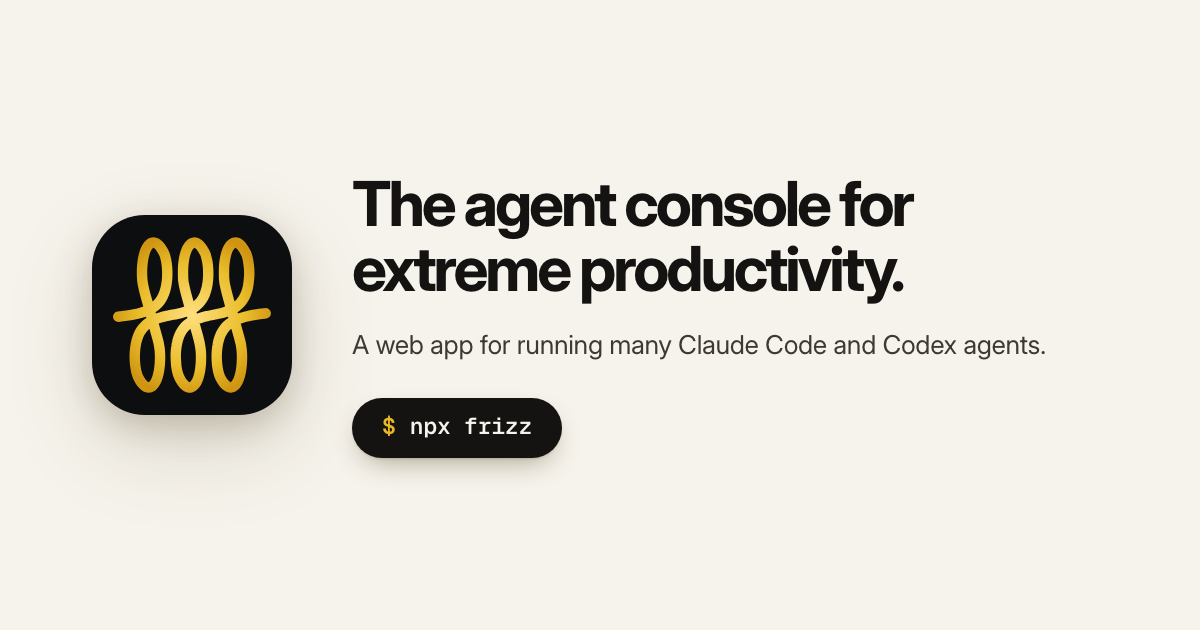
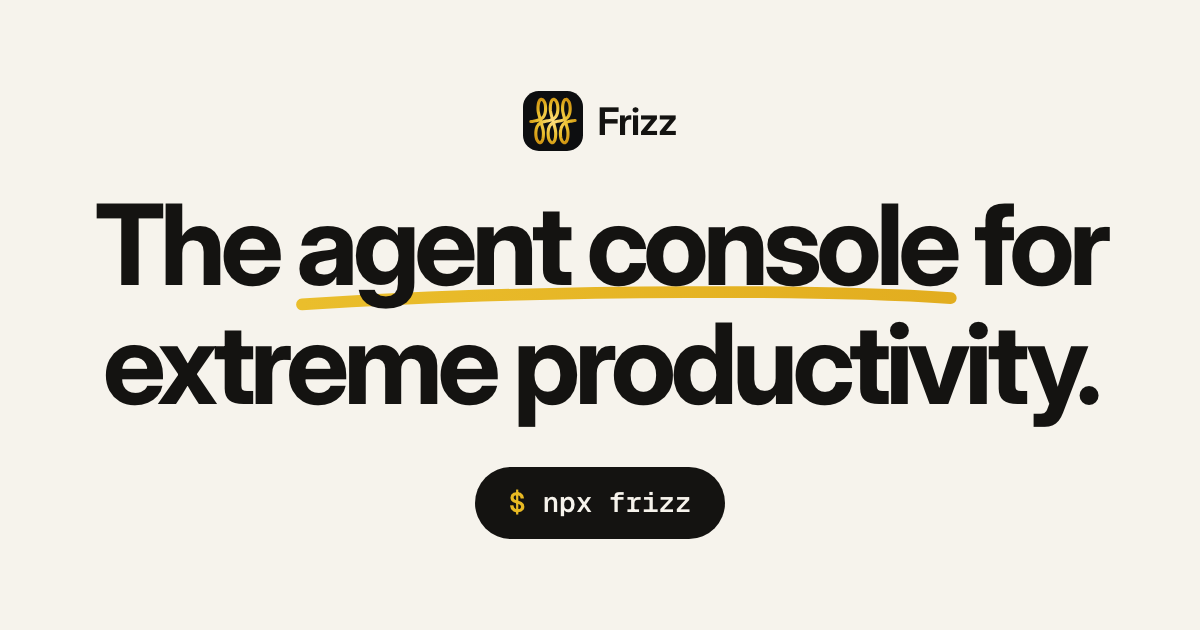
feat(site): the share card is the homepage hero
The old card never said "Frizz" outside the command, filled under half its height, and its subline
fell to about 7px at phone feed width. The new one is the hero's headline, swash and pill with the
name above them. The subline is gone, so "Claude Code and Codex" now appears only in the page
description.

Changed region(s): [[0.0617, 0.2714, 0.925, 0.8746], [0.4317, 0.1206, 0.5858, 0.2413]]

diff --git a/site/og.html b/site/og.html
@@ -7,22 +7,27 @@
     <meta charset="utf-8" />
     <link rel="stylesheet" href="/site.css" />
     <style>
+      /* The homepage's first screen on a card: its headline, swash and pill, with the name above them. */
       html, body { margin: 0; width: 1200px; height: 630px; overflow: hidden; background: var(--paper); }
-      .og { display: grid; grid-template-columns: 200px 1fr; gap: 60px; align-items: center; height: 630px; padding: 0 84px 0 92px; }
-      .og img { width: 200px; height: 200px; filter: drop-shadow(0 10px 18px rgba(70, 50, 15, 0.22)) drop-shadow(0 28px 40px rgba(70, 50, 15, 0.16)); }
-      .og h1 { margin: 0; font-size: 62px; line-height: 1.04; font-weight: 720; letter-spacing: -0.05em; color: var(--ink); }
-      .og p { margin: 26px 0 0; font-size: 26px; line-height: 1.4; color: var(--ink-2); letter-spacing: -0.012em; }
-      .og .install { margin-top: 34px; height: 60px; padding: 0 30px; font-size: 23px; }
+      .og { display: flex; flex-direction: column; align-items: center; justify-content: center; height: 630px; text-align: center; }
+      .og-brand { display: flex; align-items: center; gap: 14px; margin-bottom: 34px; font-size: 38px; line-height: 1; font-weight: 650; letter-spacing: -0.025em; }
+      .og-brand img { width: 60px; height: 60px; }
+      .og h1 { margin: 0; font-size: 112px; line-height: 1.06; font-weight: 720; letter-spacing: -0.05em; }
+      .og .install { margin-top: 44px; padding: 0 34px; font-size: 28px; box-shadow: none; }
     </style>
   </head>
   <body>
+    <svg width="0" height="0" style="position:absolute" aria-hidden="true">
+      <defs>
+        <linearGradient id="swashInk" x1="0" y1="0" x2="1" y2="0">
+          <stop offset="0" stop-color="#eabe2c"/><stop offset="1" stop-color="#e2ad1f"/>
+        </linearGradient>
+      </defs>
+    </svg>
     <div class="og">
-      <img src="/img/fff-mark.svg?v=1b5b5878" alt="" />
-      <div>
-        <h1>The agent console for<br />extreme productivity.</h1>
-        <p>A web app for running many Claude&nbsp;Code and Codex agents.</p>
-        <code class="install"><span class="dollar">$</span><span class="cmd">npx frizz</span></code>
-      </div>
+      <div class="og-brand"><img src="/img/fff-mark.svg?v=1b5b5878" alt="" /><span>Frizz</span></div>
+      <h1>The <span class="swashed"><span>agent console</span><svg class="swash" viewBox="0 0 400 44" preserveAspectRatio="none" aria-hidden="true"><path d="M6 30 C 70 22, 150 17, 236 16.5 C 300 16, 352 18, 394 23" fill="none" stroke="url(#swashInk)" stroke-linecap="round" stroke-linejoin="round" vector-effect="non-scaling-stroke"/></svg></span> for<br />extreme productivity.</h1>
+      <div class="install"><span class="dollar">$</span><code class="cmd">npx frizz</code></div>
     </div>
   </body>
 </html>

diff --git a/site/index.html b/site/index.html
@@ -10,7 +10,7 @@
     <meta property="og:title" content="Frizz — the agent console for extreme productivity" />
     <meta property="og:description" content="A web app that runs on your machine. Run many Claude Code and Codex agents from one browser tab. No account, no telemetry." />
     <meta property="og:url" content="https://frizz.sh/" />
-    <meta property="og:image" content="https://frizz.sh/img/og.png?v=ca426e2a" />
+    <meta property="og:image" content="https://frizz.sh/img/og.png?v=e931fd4a" />
     <meta property="og:image:width" content="1200" />
     <meta property="og:image:height" content="630" />
     <meta name="twitter:card" content="summary_large_image" />

diff --git a/site/docs/reverse-proxy.html b/site/docs/reverse-proxy.html
@@ -10,7 +10,7 @@
     <meta property="og:title" content="Any reverse proxy — Frizz" />
     <meta property="og:description" content="Caddy, nginx, ngrok or anything else in front of a Frizz board: terminate TLS, proxy to loopback, and name the public origin." />
     <meta property="og:url" content="https://frizz.sh/docs/reverse-proxy" />
-    <meta property="og:image" content="https://frizz.sh/img/og.png?v=ca426e2a" />
+    <meta property="og:image" content="https://frizz.sh/img/og.png?v=e931fd4a" />
     <meta property="og:image:width" content="1200" />
     <meta property="og:image:height" content="630" />
     <meta name="twitter:card" content="summary_large_image" />

diff --git a/site/docs/frizz-sh.html b/site/docs/frizz-sh.html
@@ -10,7 +10,7 @@
     <meta property="og:title" content="Frizz subdomain — Frizz" />
     <meta property="og:description" content="Reach your Frizz board from anywhere at a private frizz.sh subdomain. It needs no account, no domain, and no tunnel." />
     <meta property="og:url" content="https://frizz.sh/docs/frizz-sh" />
-    <meta property="og:image" content="https://frizz.sh/img/og.png?v=ca426e2a" />
+    <meta property="og:image" content="https://frizz.sh/img/og.png?v=e931fd4a" />
     <meta property="og:image:width" content="1200" />
     <meta property="og:image:height" content="630" />
     <meta name="twitter:card" content="summary_large_image" />

diff --git a/site/docs/ssh.html b/site/docs/ssh.html
@@ -10,7 +10,7 @@
     <meta property="og:title" content="SSH port forwarding — Frizz" />
     <meta property="og:description" content="The simplest way to reach a Frizz board from another machine: forward the port over SSH and open it on loopback." />
     <meta property="og:url" content="https://frizz.sh/docs/ssh" />
-    <meta property="og:image" content="https://frizz.sh/img/og.png?v=ca426e2a" />
+    <meta property="og:image" content="https://frizz.sh/img/og.png?v=e931fd4a" />
     <meta property="og:image:width" content="1200" />
     <meta property="og:image:height" content="630" />
     <meta name="twitter:card" content="summary_large_image" />

diff --git a/site/docs/cloudflare-tunnel.html b/site/docs/cloudflare-tunnel.html
@@ -10,7 +10,7 @@
     <meta property="og:title" content="Cloudflare Tunnel — Frizz" />
     <meta property="og:description" content="Reach a Frizz board on your own domain through a Cloudflare Tunnel, with no inbound port open." />
     <meta property="og:url" content="https://frizz.sh/docs/cloudflare-tunnel" />
-    <meta property="og:image" content="https://frizz.sh/img/og.png?v=ca426e2a" />
+    <meta property="og:image" content="https://frizz.sh/img/og.png?v=e931fd4a" />
     <meta property="og:image:width" content="1200" />
     <meta property="og:image:height" content="630" />
     <meta name="twitter:card" content="summary_large_image" />

diff --git a/site/docs/tailscale.html b/site/docs/tailscale.html
@@ -10,7 +10,7 @@
     <meta property="og:title" content="Tailscale — Frizz" />
     <meta property="og:description" content="Serve a Frizz board over HTTPS on your tailnet, where only your own devices can reach it." />
     <meta property="og:url" content="https://frizz.sh/docs/tailscale" />
-    <meta property="og:image" content="https://frizz.sh/img/og.png?v=ca426e2a" />
+    <meta property="og:image" content="https://frizz.sh/img/og.png?v=e931fd4a" />
     <meta property="og:image:width" content="1200" />
     <meta property="og:image:height" content="630" />
     <meta name="twitter:card" content="summary_large_image" />
